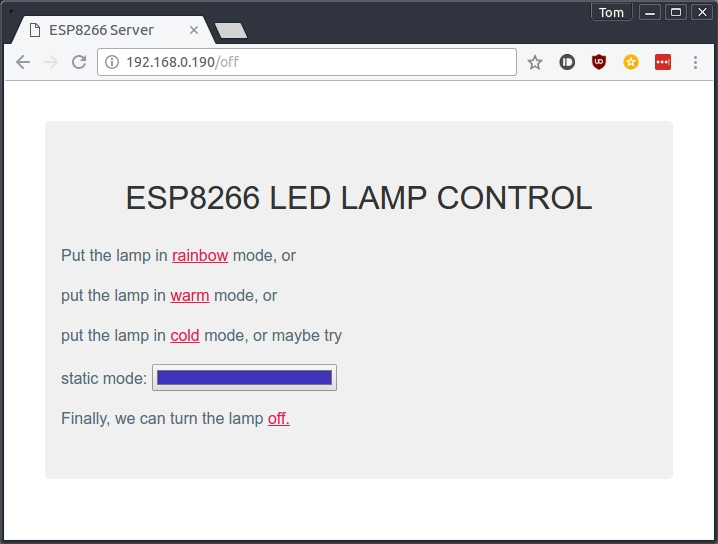
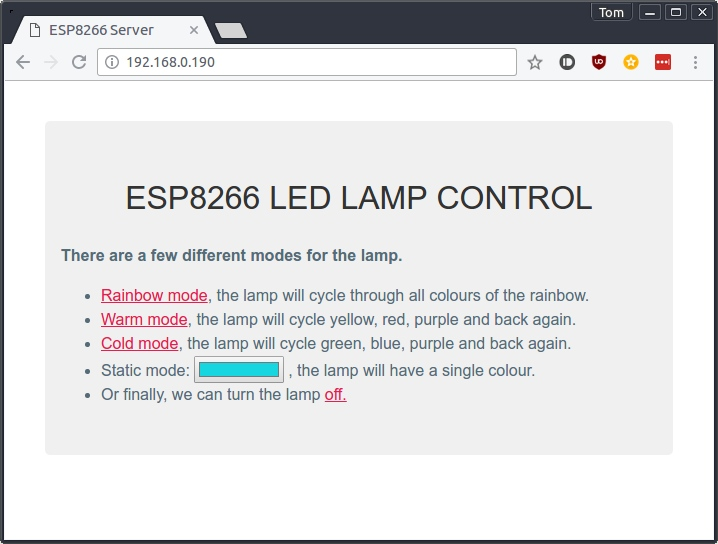
Change web interface appearence

Changed region(s): [[0.0919, 0.5312, 0.8273, 0.7812], [0.0919, 0.4375, 0.5515, 0.5], [0.3064, 0.0938, 0.337, 0.125]]

diff --git a/esp8266/lamp.html b/esp8266/lamp.html
@@ -3,18 +3,22 @@
     <head>
       <title>ESP8266 Server</title>
       <meta name='viewport' content='width=device-width, initial-scale=1'>
-      <style type='text/css'>html{background-color:#fff;}body{margin:0 auto;max-width:50em;line-height:1.5;padding:2em 1em;border:40px solid #fff;border-radius:45px;background:#F0F0F0;color:#566b78;font-family:sans-serif;-moz-font-smoothing:grayscale;-webkit-font-smoothing:antialiased}h1,strong{color:#333;font-weight:500}a{color:#e81c4f}</style>
+      <style type='text/css'>html{background-color:#fff;}body{margin:0 auto;max-width:50em;line-height:1.5;padding:2em 1em;border:40px solid #fff;border-radius:45px;background:#F0F0F0;color:#41443D;font-family:sans-serif;-moz-font-smoothing:grayscale;-webkit-font-smoothing:antialiased}h1,strong{color:#333;font-weight:500}a{color:#e81c4f}</style>
     </head>
     <body>
     <center><h1>ESP8266 LED LAMP CONTROL</h1></center>
-    <p> Put the lamp in <a href=\"rainbow\">rainbow</a> mode, or</p>
-    <p> put the lamp in <a href=\"warm\">warm</a> mode, or</p>
-    <p> put the lamp in <a href=\"cold\">cold</a> mode, or maybe try</p>
-    <p> 
-    <p> <form id='static' action='colour' method='post'>
-      static mode:
-      <input type='color' name='colour' value='#3d34b9' style='width:30%' onchange="document.getElementById('static').submit();">
-    </form> </p>
-    <p> Finally, we can turn the lamp <a href=\"off\">off.</a> </p>
+    <b>There are a few different modes for the lamp.</b>
+    <ul>
+	    <li> <a href=\"rainbow\">Rainbow mode</a>, the lamp will cycle through all colours of the rainbow.</li>
+	    <li> <a href=\"warm\">Warm mode</a>, the lamp will cycle yellow, red, purple and back again.</li>
+	    <li> <a href=\"cold\">Cold mode</a>, the lamp will cycle green, blue, purple and back again.</li>
+	    <li> <form id='static' action='colour' method='post'>
+	      Static mode:
+	      <input type='color' name='colour' value='#3d34b9' style='width:15%' onchange="document.getElementById('static').submit();">
+	      , the lamp will have a single colour.
+	    </form> </li>
+	    <li> Or finally, we can turn the lamp <a href=\"off\">off.</a> </li>
+    </ul>
     </body>
   </html>
+
